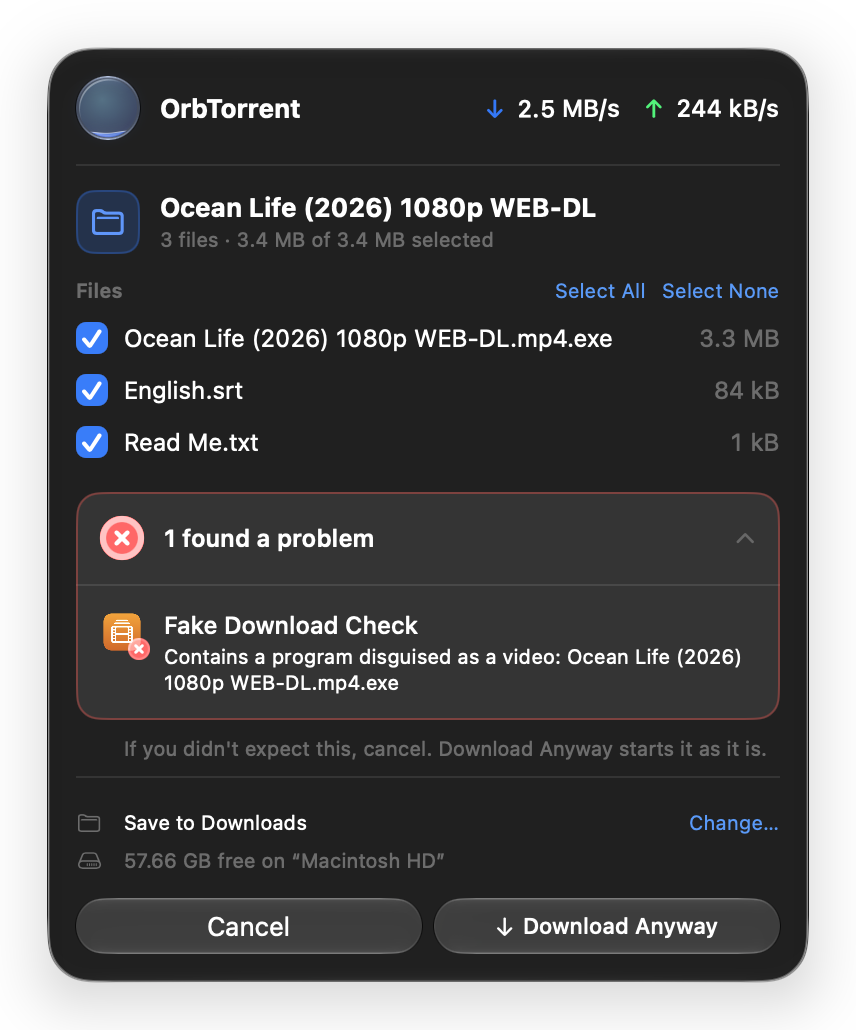
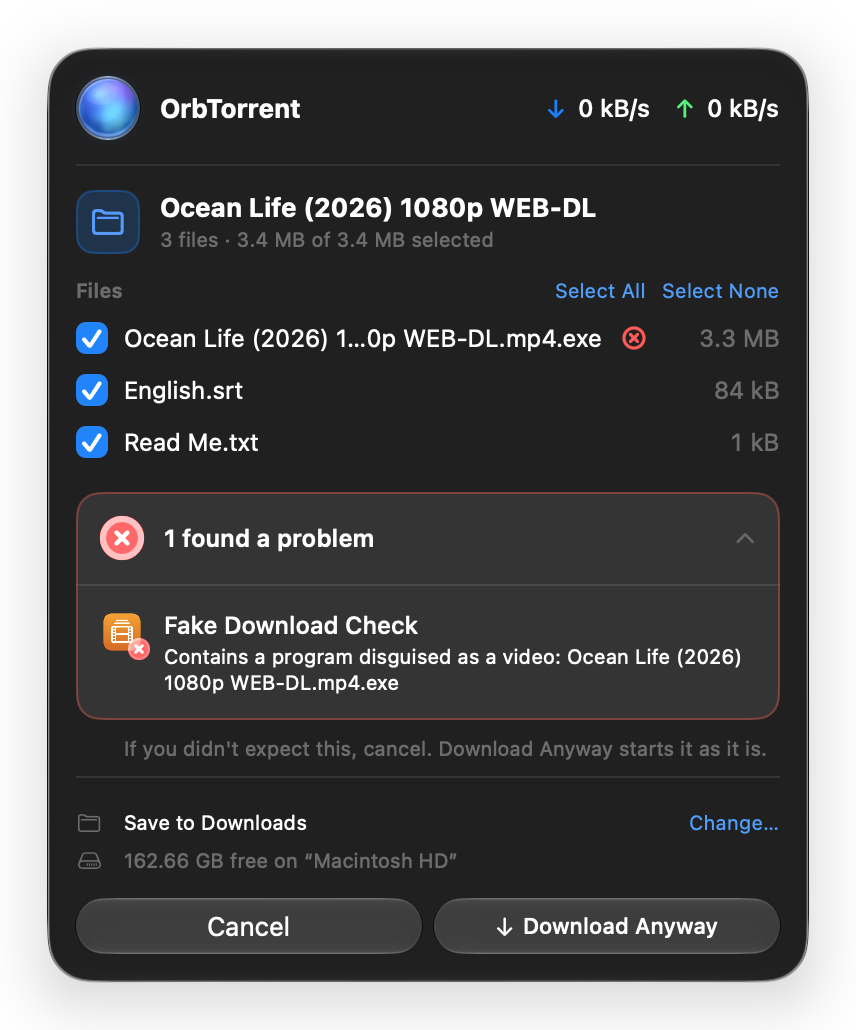
Show the red mark beside a flagged file in the docs' held-download screenshot
The add window now marks the file a check found a problem with, so the
screenshot on "Checks and held downloads" and "Your first download" is
retaken from OrbTorrent Dev, and its description mentions the mark.

Claude-Session: https://claude.ai/code/session_01YT59JppbDS1uD43RSHaLnc

diff --git a/website/src/content/docs/docs/get-started/first-download.md b/website/src/content/docs/docs/get-started/first-download.md
@@ -21,7 +21,7 @@ If the download is already in your library, OrbTorrent says so rather than addin
 
 OrbTorrent asks before downloading, so you can check what's coming first. Links from your browser and files from Finder are asked about in the **menu bar panel**; downloads you add in the window are asked about there.
 
-![The menu bar panel asking about a download: its three files, a check that found a problem, the folder it saves to and the free space on the disk](../../../../assets/shots/held.png)
+![The menu bar panel asking about a download: its three files, one marked by a check that found a problem, the folder it saves to and the free space on the disk](../../../../assets/shots/held.png)
 
 - **Files.** Untick any you don't want. **Select All** and **Select None** are above the list. A download with one file has no list.
 - **Checks.** If your [extensions](/docs/guides/checks) check downloads before they start, their results show here. If one finds a problem, the button becomes **Download Anyway**.

diff --git a/website/src/content/docs/docs/guides/checks.md b/website/src/content/docs/docs/guides/checks.md
@@ -56,7 +56,7 @@ When a check fails before a download starts, OrbTorrent holds it: nothing downlo
 
 - **If OrbTorrent asked about the download,** the check's result shows in the confirmation, and the button becomes **Download Anyway**.
 
-  ![OrbTorrent asking about a download whose video file is really a Windows program: the Fake Download Check found a problem, and the button says Download Anyway](../../../../assets/shots/held.png)
+  ![OrbTorrent asking about a download whose video file is really a Windows program, marked with a red cross: the Fake Download Check found a problem, and the button says Download Anyway](../../../../assets/shots/held.png)
 
 - **If the download started on its own,** OrbTorrent stops it the moment its file list arrives, holds it, and sends a **Download Held** notification. The menu bar panel shows it too: **"… is held by a check."**
 
